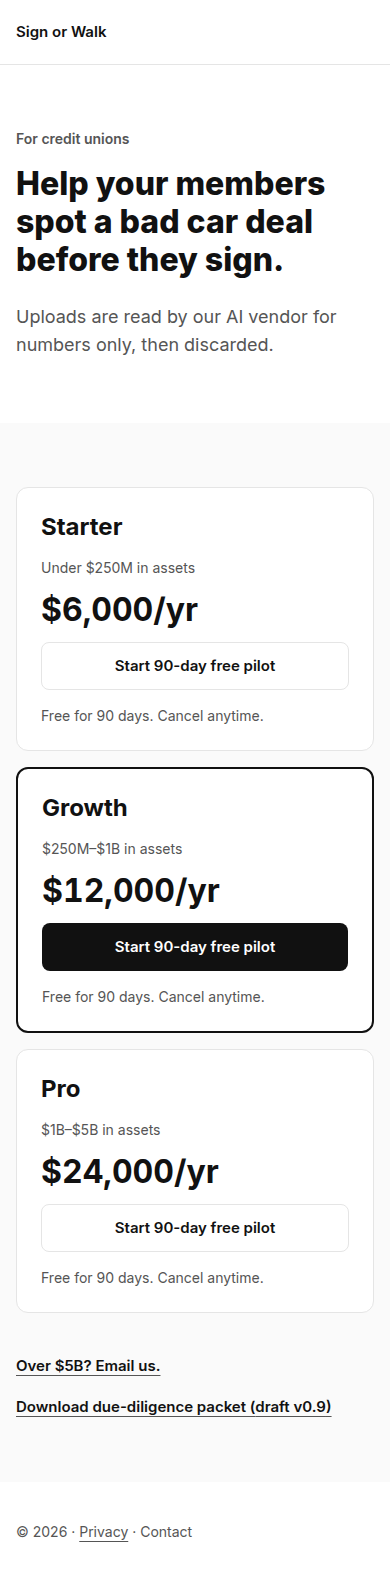
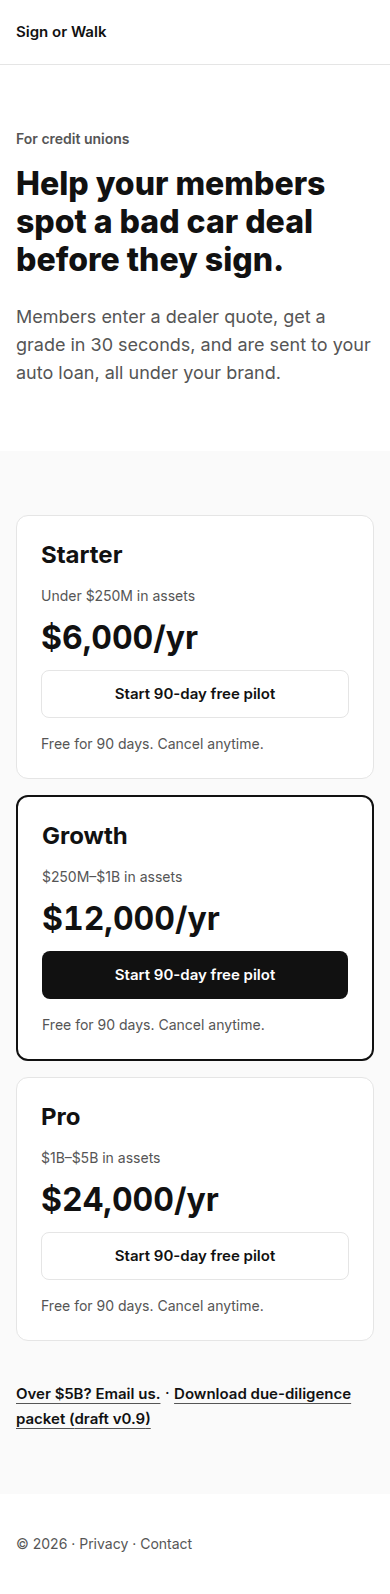
Restore the credit-union value line and correct the upload disclosure.
Worksheet uploads go to Anthropic and are not stored. The packet says there is no setup fee, and the setup amounts stay at zero.

diff --git a/src/cu/packet/documents.ts b/src/cu/packet/documents.ts
@@ -133,7 +133,7 @@ Answer: [Draft design] Not used.
 Answer: [Draft design] Vercel hosts the application. What appears in Vercel edge or platform logs, and how long it is kept, is [To be completed].
 
 5.2 AI vendor
-Answer: [Draft design] Anthropic is the intended model vendor, and only if a credit union's configuration turns the classifier on. The intended call does not include a member's name or account number. Commercial terms (training, retention, region) are [To be completed] and are described as intent in the AI vendor terms draft, which is not the vendor's contract.
+Answer: [Draft design] Anthropic is the model vendor. Every upload sends the full worksheet image, which may include a name or VIN, to Anthropic. Sign or Walk does not store that file. Commercial terms (training, retention, region) are [To be completed] and are described as intent in the AI vendor terms draft, which is not the vendor's contract.
 
 5.3 Email delivery
 Answer: [Draft design] The credit-union service does not send member email. Resend is used on the separate consumer site and is not part of this service in this draft.
@@ -326,7 +326,7 @@ The Customer is responsible for the accuracy of those URLs and for the rates and
 
 ## 4. Prices
 
-List prices, in United States dollars, billed annually. Every priced tier is the same product. The tier follows total assets. There is no monthly price.
+List prices, in United States dollars, billed annually. Every priced tier is the same product. The tier follows total assets. There is no monthly price. There is no setup fee.
 
 | Tier | Total assets | Annual |
 | --- | --- | --- |
@@ -340,7 +340,7 @@ The public website's consumer footer says the consumer grader is free. That sent
 
 ## 5. Billing
 
-Prices in section 4 are annual. There is no monthly price. Online checkout is not built. This sample does not authorize Provider to charge a card. An invoice process for a term after the pilot is [To be completed].
+Prices in section 4 are annual. There is no monthly price. There is no setup fee. Online checkout is not built. This sample does not authorize Provider to charge a card. An invoice process for a term after the pilot is [To be completed].
 
 ## 6. 90-day free pilot
 
@@ -416,7 +416,7 @@ If a person types that kind of data into a numeric field, the field should rejec
 
 ## 4. Data that may be processed
 
-[Draft design] Dealer-quote figures the person chooses to type (for example price, rate, and term), for long enough to build the on-screen result, and not as a retained member record.
+[Draft design] Dealer-quote figures the person chooses to type (for example price, rate, and term), for long enough to build the on-screen result, and not as a retained member record. Also uploaded worksheet images or PDFs, sent to the AI vendor and not stored by us.
 
 [To be completed] Incidental technical data in host or edge logs (which may include IP address). The application log is intended to exclude quote inputs, IP address, and user agent. Retention of any platform log is not answered in this draft.
 

diff --git a/src/app/credit-unions/page.tsx b/src/app/credit-unions/page.tsx
@@ -1,10 +1,10 @@
 import Link from 'next/link';
 import type { Metadata } from 'next';
-import { UPLOAD_DISCLOSURE } from '@/cu/copy';
 import { DOCUMENT_VERSION_LABEL, formatUsd, TALK_TO_US_EMAIL, pricedTiers, type PricedTierId } from './pricing';
 
 const PAGE_URL = 'https://signorwalk.com/credit-unions';
 const HEADLINE = 'Help your members spot a bad car deal before they sign.';
+const VALUE_LINE = 'Members enter a dealer quote, get a grade in 30 seconds, and are sent to your auto loan, all under your brand.';
 
 const ASSETS: Record<PricedTierId, string> = {
   starter: 'Under $250M in assets',
@@ -14,11 +14,11 @@ const ASSETS: Record<PricedTierId, string> = {
 
 export const metadata: Metadata = {
   title: 'Credit unions — Sign or Walk',
-  description: UPLOAD_DISCLOSURE,
+  description: VALUE_LINE,
   alternates: { canonical: PAGE_URL },
   openGraph: {
     title: HEADLINE,
-    description: UPLOAD_DISCLOSURE,
+    description: VALUE_LINE,
     url: PAGE_URL,
     type: 'website',
     siteName: 'Sign or Walk',
@@ -48,7 +48,7 @@ export default function CreditUnionsPage() {
         <h1 className="mt-4 max-w-[640px] text-[32px] font-extrabold leading-[38px] md:text-[48px] md:leading-[52px]">
           {HEADLINE}
         </h1>
-        <p className="mt-6 max-w-[640px] text-[18px] leading-[28px] cu-muted">{UPLOAD_DISCLOSURE}</p>
+        <p className="mt-6 max-w-[640px] text-[18px] leading-[28px] cu-muted">{VALUE_LINE}</p>
       </div>
 
       <div className="mt-16 cu-band py-16 md:mt-24">
@@ -75,8 +75,7 @@ export default function CreditUnionsPage() {
 
           <p className="mt-10">
             <a href={`mailto:${TALK_TO_US_EMAIL}`} className={textLink}>Over $5B? Email us.</a>
-          </p>
-          <p className="mt-4">
+            {' · '}
             <a href="/credit-unions/packet" className={textLink}>Download due-diligence packet ({DOCUMENT_VERSION_LABEL})</a>
           </p>
         </div>
@@ -88,7 +87,7 @@ export default function CreditUnionsPage() {
           {' · '}
           <Link href="/credit-unions/privacy" className="hover:underline underline-offset-4 cu-ring">Privacy</Link>
           {' · '}
-          <Link href="/contact" className="hover:underline underline-offset-4 cu-ring">Contact</Link>
+          <a href={`mailto:${TALK_TO_US_EMAIL}`} className="hover:underline underline-offset-4 cu-ring">Contact</a>
         </p>
       </footer>
     </div>

diff --git a/test/cu-platform.test.ts b/test/cu-platform.test.ts
@@ -188,12 +188,36 @@ test('stripe checkout stays unwired', () => {
 test('growth copy and the worksheet route stay on the approved words', () => {
   const page = readFileSync('src/app/credit-unions/page.tsx', 'utf8');
   const started = readFileSync('src/app/credit-unions/get-started/page.tsx', 'utf8');
+  const privacy = readFileSync('src/app/credit-unions/privacy/page.tsx', 'utf8');
+  const copy = readFileSync('src/cu/copy.ts', 'utf8');
+  const dashboard = readFileSync('src/app/cu/[tenant]/dashboard/page.tsx', 'utf8');
+  const admin = readFileSync('src/app/cu/admin/page.tsx', 'utf8');
+  const actions = readFileSync('src/app/cu/actions.ts', 'utf8');
   const extract = readFileSync('src/app/api/cu/[tenant]/extract/route.ts', 'utf8');
   const form = readFileSync('src/app/cu/[tenant]/CheckForm.tsx', 'utf8');
+  const value = 'Members enter a dealer quote, get a grade in 30 seconds, and are sent to your auto loan, all under your brand.';
   assert.equal(page.includes('Most chosen'), false);
   assert.equal(/\bfees?\b/i.test(page), false);
   assert.equal(/\bfees?\b/i.test(started), false);
-  assert.match(page, /UPLOAD_DISCLOSURE/);
+  assert.equal(page.includes('UPLOAD_DISCLOSURE'), false);
+  assert.equal(page.includes(value), true);
+  assert.match(page, /description: VALUE_LINE/);
+  assert.match(page, /Over \$5B\? Email us\./);
+  assert.match(page, /\{' · '\}/);
+  assert.match(page, /mailto:\$\{TALK_TO_US_EMAIL\}/);
+  assert.equal(page.includes('href="/contact"'), false);
+  assert.match(copy, /Uploads are sent to our AI vendor \(Anthropic\) to read the numbers\. We don't store them\./);
+  assert.equal(copy.includes('then discarded'), false);
+  assert.match(privacy, /Vendor retention: see the/);
+  assert.match(privacy, /due-diligence packet/);
+  assert.equal(dashboard.includes('Since pilot start'), false);
+  assert.match(dashboard, /All time/);
+  assert.match(dashboard, /href=\{shareUrl\}/);
+  assert.equal(admin.includes('Tenants'), false);
+  assert.equal(admin.includes('Accounts'), false);
+  assert.match(admin, /Credit unions/);
+  assert.match(actions, /session\?\.role === 'admin'/);
+  assert.match(actions, /redirect\('\/credit-unions'\)/);
   assert.match(page, /DOCUMENT_VERSION_LABEL/);
   assert.match(started, /Email us to start your pilot and we'll set it up within 1 business day\./);
   assert.equal(extract.includes('export const GET'), false);

diff --git a/src/app/cu/admin/page.tsx b/src/app/cu/admin/page.tsx
@@ -2,7 +2,7 @@ import type { Metadata } from 'next';
 import { cookies } from 'next/headers';
 import { redirect } from 'next/navigation';
 import { CU_SESSION_COOKIE, demoTenantId, verifySession } from '@/cu/auth';
-import { getAggregates, getSettings, staffDirectory } from '@/cu/cu-store';
+import { getAggregates, getSettings } from '@/cu/cu-store';
 import { CU_TENANTS } from '@/cu/tenants';
 import { StaffHeader } from '../StaffHeader';
 
@@ -45,7 +45,7 @@ export default async function AdminPage() {
           </p>
           <p>
             <span className="block text-[32px] font-bold leading-[32px] tabular-nums">{rows.length}</span>
-            <span className="mt-2 block text-[14px] leading-[20px] cu-muted">Tenants</span>
+            <span className="mt-2 block text-[14px] leading-[20px] cu-muted">Credit unions</span>
           </p>
         </div>
         <div className="mt-10 overflow-x-auto">
@@ -72,25 +72,6 @@ export default async function AdminPage() {
             </tbody>
           </table>
         </div>
-        <h2 className="mt-10 text-[24px] font-bold leading-[30px]">Accounts</h2>
-        <table className="mt-4 w-full border-collapse text-left">
-          <thead>
-            <tr className="border-b cu-line text-[14px] leading-[20px] cu-muted">
-              <th className="py-3 pr-4 font-semibold">Account</th>
-              <th className="py-3 pr-4 font-semibold">Role</th>
-              <th className="py-3 font-semibold">Tenant</th>
-            </tr>
-          </thead>
-          <tbody>
-            {staffDirectory().map(staff => (
-              <tr key={staff.role} className="border-b cu-line text-[15px]">
-                <td className="py-3 pr-4">{staff.label}</td>
-                <td className="py-3 pr-4">{staff.role === 'admin' ? 'Admin' : 'Credit union'}</td>
-                <td className="py-3">{staff.role === 'admin' ? 'All' : staff.tenantId}</td>
-              </tr>
-            ))}
-          </tbody>
-        </table>
       </main>
     </>
   );

diff --git a/src/app/cu/[tenant]/dashboard/page.tsx b/src/app/cu/[tenant]/dashboard/page.tsx
@@ -126,7 +126,7 @@ export default async function DashboardPage({
 
         {section === 'usage' ? <section aria-labelledby="usage-heading">
           <h1 id="usage-heading" className="text-[32px] font-bold leading-[38px]">Usage</h1>
-          <p className="mt-4 text-[14px] leading-[20px] cu-muted">Since pilot start</p>
+          <p className="mt-4 text-[14px] leading-[20px] cu-muted">All time</p>
           <div className="mt-8 grid grid-cols-2 gap-6">
             <p>
               <span className="block text-[32px] font-bold leading-[32px] tabular-nums">{aggregates.checks}</span>
@@ -140,7 +140,9 @@ export default async function DashboardPage({
           {aggregates.checks === 0 ? (
             <div className="mx-auto mt-10 w-full max-w-[560px] text-center">
               <h2 className="text-[24px] font-bold leading-[30px]">No checks yet</h2>
-              <p className="mt-2 text-[14px] leading-[20px] cu-muted">Share your link: {shareUrl}</p>
+              <p className="mt-2 text-[14px] leading-[20px] cu-muted">
+                Share your link: <a href={shareUrl} className="underline underline-offset-4 cu-linkline">{shareUrl}</a>
+              </p>
             </div>
           ) : (
             <div className="mt-10">

diff --git a/test/cu.test.ts b/test/cu.test.ts
@@ -115,7 +115,11 @@ test('due diligence packet is one zip containing every draft', () => {
   assert.equal(inflated.equals(Buffer.from(first.body)), true);
   for (const tier of pricedTiers) assert.equal(tier.setupUsd, 0, tier.id);
   const packet = dueDiligenceDocs.map(doc => `${doc.title}\n${doc.description}\n${doc.body}`).join('\n');
-  assert.equal(/\bfees?\b/i.test(packet), false);
+  assert.match(packet, /Every upload sends the full worksheet image, which may include a name or VIN, to Anthropic\./);
+  assert.match(packet, /uploaded worksheet images or PDFs, sent to the AI vendor and not stored by us/);
+  const fees = packet.match(/\bfees?\b/gi) ?? [];
+  assert.deepEqual(fees, ['fee', 'fee']);
+  assert.equal(packet.split('There is no setup fee.').length - 1, 2);
 });
 
 test('credit-union headers deny framing and payment, and member pages skip third-party fonts', () => {

diff --git a/src/app/credit-unions/privacy/page.tsx b/src/app/credit-unions/privacy/page.tsx
@@ -15,6 +15,9 @@ export default function CreditUnionPrivacyPage() {
       <p className="text-[15px] font-semibold leading-[20px]">Sign or Walk</p>
       <h1 className="mt-16 text-[32px] font-extrabold leading-[38px]">Privacy</h1>
       <p className="mt-6 text-[18px] leading-[28px] cu-muted">{UPLOAD_DISCLOSURE} Member quotes are not stored.</p>
+      <p className="mt-6 text-[18px] leading-[28px] cu-muted">
+        Vendor retention: see the <Link href="/credit-unions/packet" className="underline underline-offset-4 cu-linkline">due-diligence packet</Link>
+      </p>
       <p className="mt-6">
         <a href={`mailto:${TALK_TO_US_EMAIL}`} className="text-[15px] font-semibold cu-ink underline decoration-1 underline-offset-4 cu-linkline cu-ring">
           {TALK_TO_US_EMAIL}

diff --git a/src/app/cu/actions.ts b/src/app/cu/actions.ts
@@ -52,6 +52,7 @@ export async function signIn(formData: FormData) {
 }
 
 export async function signOut(formData: FormData) {
+  const session = await currentSession();
   const tenant = String(formData.get('tenant') ?? '');
   const dest = getCuTenant(tenant)?.id ?? demoTenantId();
   const jar = await cookies();
@@ -62,6 +63,7 @@ export async function signOut(formData: FormData) {
     secure: await secureCookie(),
     maxAge: 0,
   });
+  if (session?.role === 'admin') redirect('/credit-unions');
   redirect(`/cu/${dest}/sign-in`);
 }
 

diff --git a/src/cu/copy.ts b/src/cu/copy.ts
@@ -1,6 +1,6 @@
 /** Visible credit-union copy that more than one page has to match. */
 
 export const UPLOAD_DISCLOSURE =
-  'Uploads are read by our AI vendor for numbers only, then discarded.';
+  "Uploads are sent to our AI vendor (Anthropic) to read the numbers. We don't store them.";
 
 export const FILE_READ_ERROR = "We couldn't read that file. Enter the numbers instead.";
